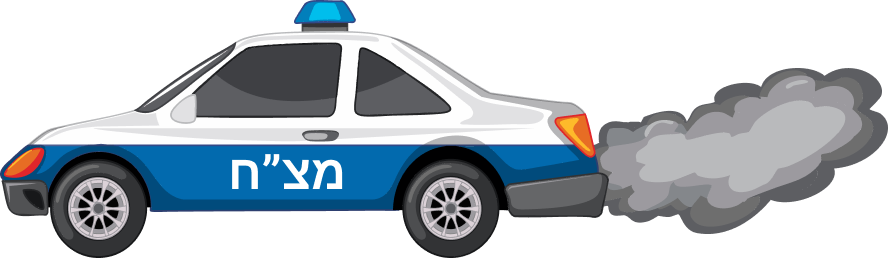
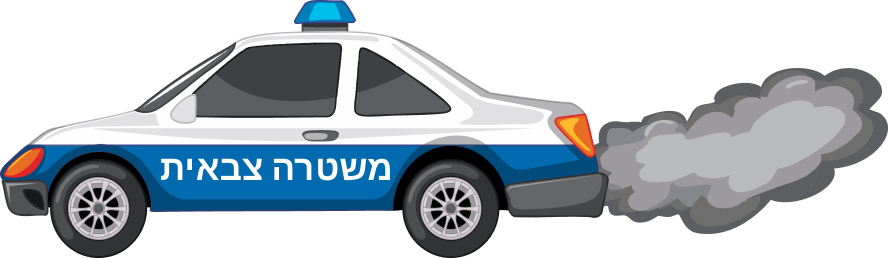
changes 15.7

Changed region(s): [[0.1824, 0.5891, 0.4561, 0.7442]]

diff --git a/src/components/EndScreen.vue b/src/components/EndScreen.vue
@@ -3,7 +3,7 @@
     <div class="end-container">
       <p class="endText">סיימתם למלא את כל מסמכי המעצר!</p>
       <p class="endText">בזכותכם עצירת החשוד הושלמה!</p>
-      <button class="againBtn" @click="startAgain">לתרגל שוב!</button>
+      <button class="againBtn" @click="startAgain">לתחילת הלומדה</button>
     </div>
     <div class="graphic">
       <div class="car-container">
@@ -45,7 +45,7 @@ export default {
 
 .car-container {
   position: absolute;
-  top: 13rem; /* שימי לב למיקום מעל הכביש */
+  top: 3rem; /* שימי לב למיקום מעל הכביש */
   left: 100%; /* מתחילה מחוץ למסך מימין */
   width: 35rem;
   animation: drive 10s linear forwards; /* האנימציה */
@@ -70,18 +70,22 @@ export default {
   height: 5rem;
   position: relative;
   z-index: 2;
-  margin-top: 20rem;
+  margin-top: 10rem;
 }
 .end-container {
   display: flex;
   flex-direction: column;
   align-items: center;
   margin-top: 5rem;
+  padding: 2rem;
 }
 .endText {
   font-family: "rubik";
-  font-size: 1.5rem;
+  font-size: 2rem;
   margin: 0.3rem;
+  color: white;
+  font-family: "abraham";
+  text-align: center;
 
 }
 .againBtn {

diff --git a/src/components/Table.vue b/src/components/Table.vue
@@ -167,6 +167,7 @@ export default {
 .mouse {
   cursor: pointer;
 }
+
 .glow {
   animation: glow-fade 1.5s infinite ease-in-out;
 }
